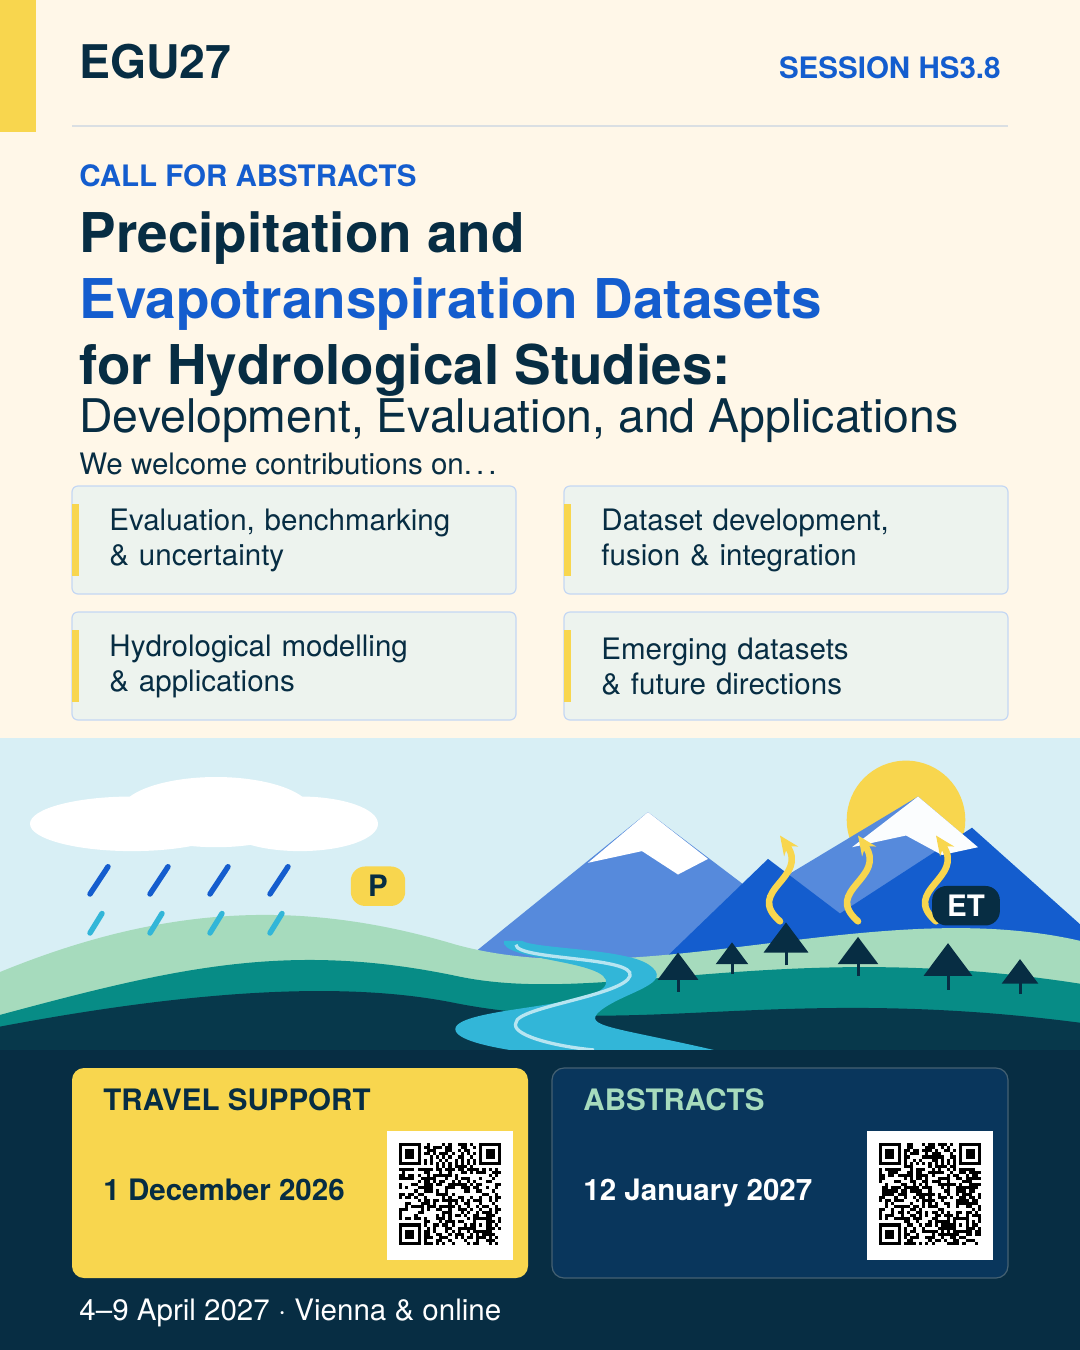
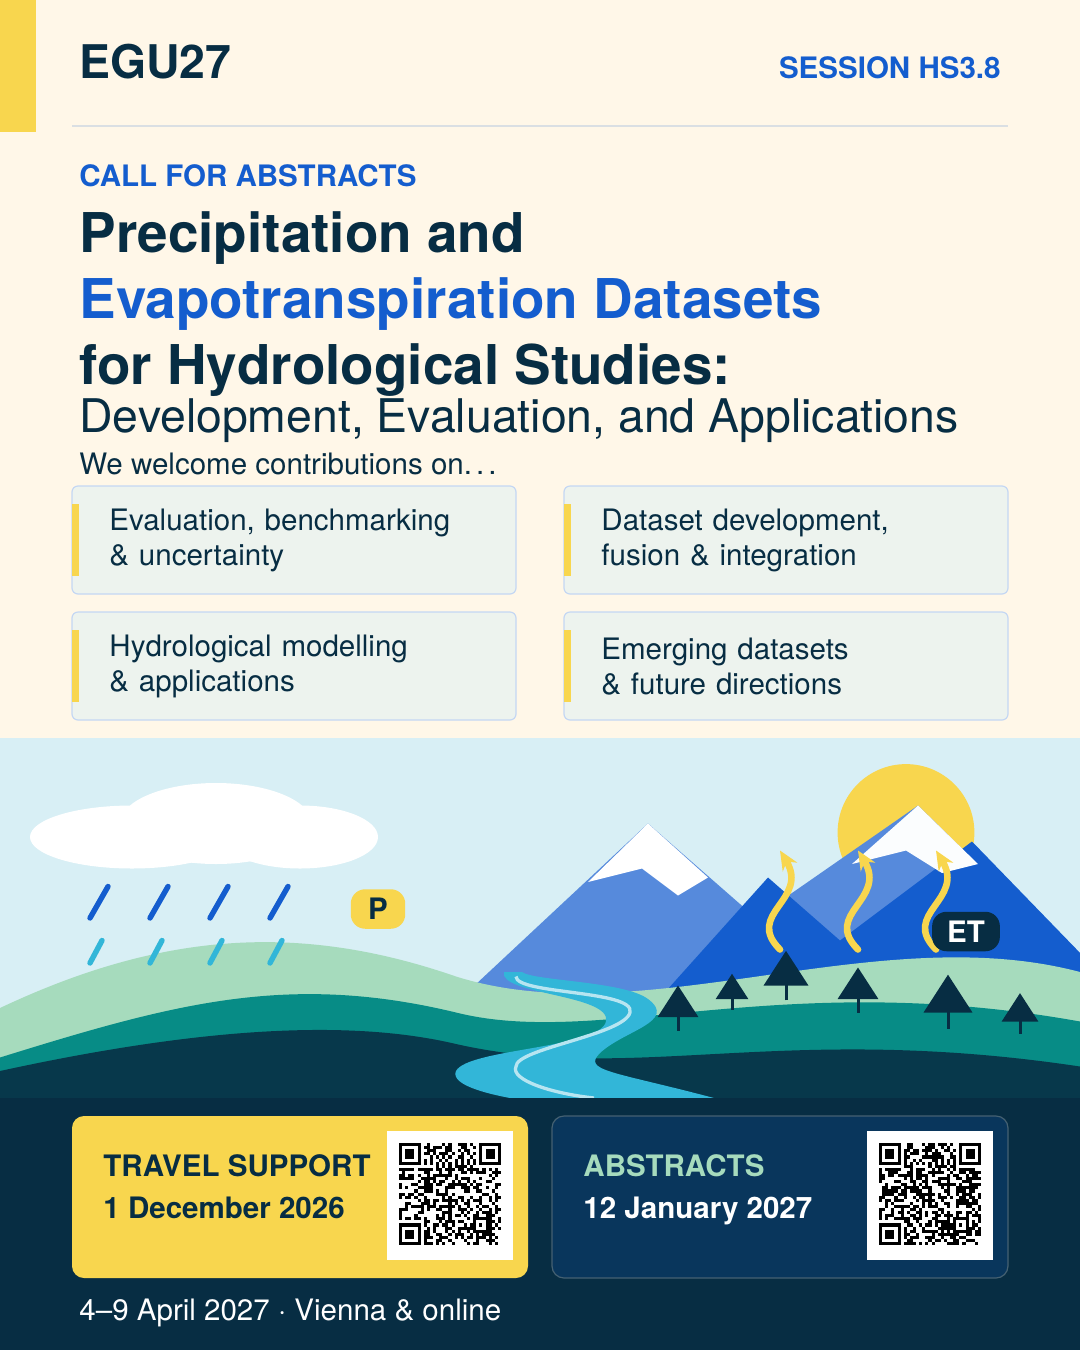
Tighten Instagram deadline headings and panel height
Move headings directly above their dates and reduce panel height by 8 mm, returning that space to the landscape. Preserve QR code size and position. Visually inspected the final export and passed packaging validation.

AI assistance: GPT-6 (Codex).

Changed region(s): [[0.0, 0.5911, 1.0, 0.9022], [0.1222, 0.56, 0.275, 0.5911]]

diff --git a/site/index.html b/site/index.html
@@ -131,7 +131,7 @@
           <div class="section-heading"><div><p class="eyebrow dark-eyebrow">Spread the word</p><h2 id="downloads-title">Campaign downloads</h2></div><p>Social graphics, ready-to-share copy,<br>and editable LaTeX source.</p></div>
           <div class="downloads-grid">
             <article class="download-card">
-              <a class="asset-preview portrait-preview" href="downloads/egu27-hs38-instagram.png" aria-label="View the Instagram graphic"><img src="downloads/egu27-hs38-instagram.png?v=568718d9e7cd" width="1080" height="1350" loading="lazy" alt="EGU27 HS3.8 call for abstracts on precipitation and evapotranspiration datasets for hydrological studies. Abstract deadline: 12 January 2027, 13:00 CET."></a>
+              <a class="asset-preview portrait-preview" href="downloads/egu27-hs38-instagram.png" aria-label="View the Instagram graphic"><img src="downloads/egu27-hs38-instagram.png?v=418929daaf6c" width="1080" height="1350" loading="lazy" alt="EGU27 HS3.8 call for abstracts on precipitation and evapotranspiration datasets for hydrological studies. Abstract deadline: 12 January 2027, 13:00 CET."></a>
               <div class="download-card-bottom"><div><h3>Instagram</h3><p>Portrait · 1080 × 1350</p></div><div class="download-links"><a href="downloads/egu27-hs38-instagram.png" download>PNG <span aria-hidden="true">↓</span></a><a href="downloads/egu27-hs38-instagram.pdf" download>PDF <span aria-hidden="true">↓</span></a></div></div>
             </article>
             <article class="download-card">

diff --git a/docs/history.md b/docs/history.md
@@ -32,3 +32,5 @@
 - Placed compact Instagram deadline panels side by side, with day/month and year split beside each QR code, and restored the water-cycle illustration to 52 mm height for less compressed mountains and river.
 
 - Reduced Instagram deadline text to the existing 14 pt body size so each complete date, including the year, fits on one line beside its QR code.
+
+- Tightened Instagram deadline panels from 35 to 27 mm height and positioned their headings directly above the full dates; returned the saved space to the illustration.
